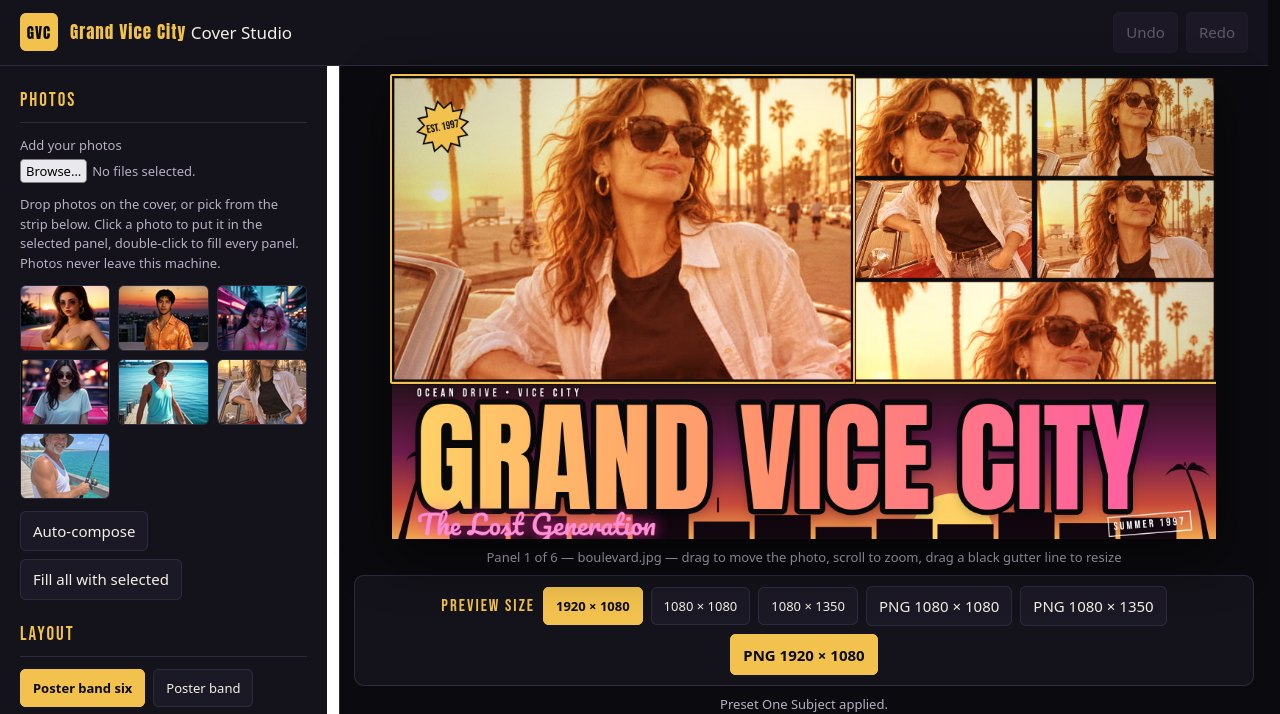
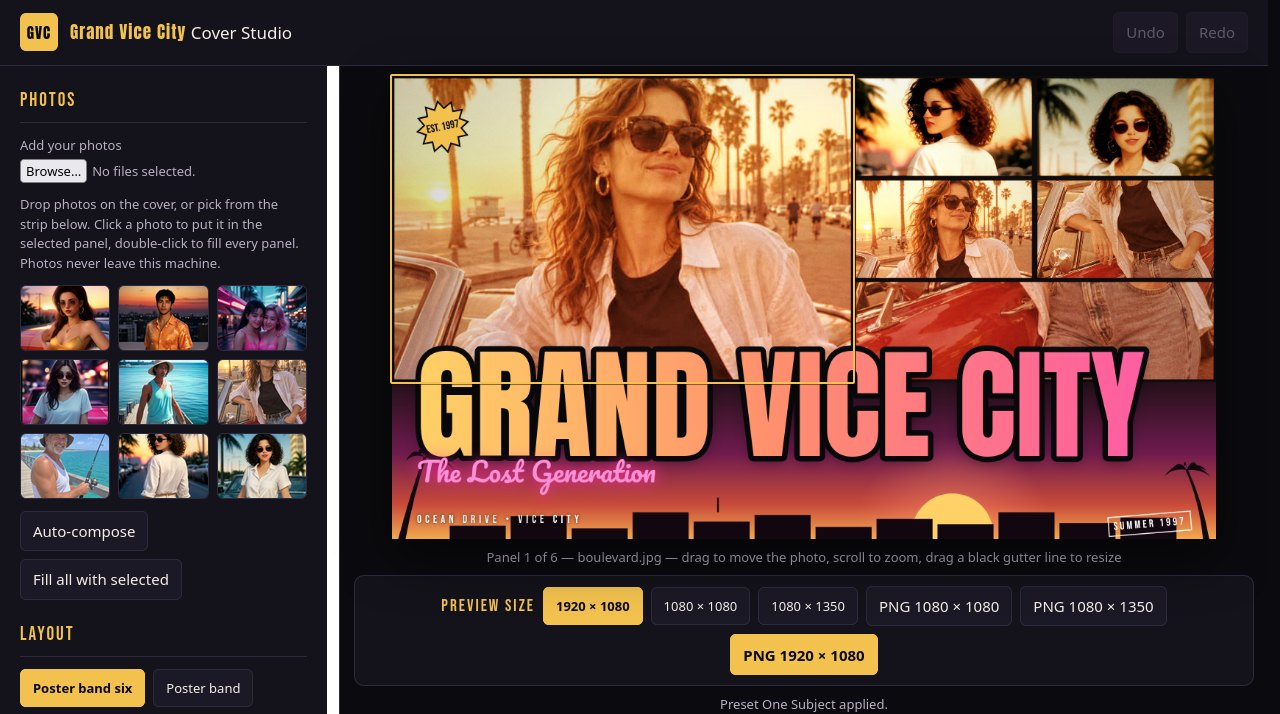
v5: title overlaps panels, two new same-heroine scenes, fully flat Poster Ink

Changed region(s): [[0.3125, 0.0924, 0.9688, 0.7703], [0.0938, 0.5854, 0.25, 0.7087]]

diff --git a/app/src/lettering.js b/app/src/lettering.js
@@ -9,6 +9,10 @@
 // never covers a face or a hero's body. Full-bleed layouts keep the title
 // overlapping the panels, but it now grows to fill the width (up to a
 // taller cap) instead of sitting small in the bottom-left corner.
+// v5: band layouts with layout.titleOverlap lift the title's caps above the
+// band into the panels (ala #2 SUN HEIST), and move the location line to
+// the band's bottom row so the small line is never struck through by the
+// giant letters. The overlap is sized to clear every face (see layouts.js).
 import { GRADES } from './grades.js';
 import { LAYOUTS } from './layouts.js';
 
@@ -184,8 +188,13 @@ export function drawLettering(ctx, W, H, state) {
     // not the flat gradient fill v2 used — see drawBandBackdrop above.
     ctx.save();
     drawBandBackdrop(ctx, W, bandY, bandH, grade);
-    ctx.fillStyle = '#f2c14e';
-    ctx.fillRect(0, bandY, W, Math.max(2, Math.round(H * 0.004)));
+    // v5: overlap mode skips the gold rule at bandY — the title's caps
+    // cross that line, and a 4px rule through the letters would read as
+    // a strike-through instead of a frame edge.
+    if (!layout.titleOverlap) {
+      ctx.fillStyle = '#f2c14e';
+      ctx.fillRect(0, bandY, W, Math.max(2, Math.round(H * 0.004)));
+    }
     ctx.restore();
 
     // Block: location row, giant one-line title, neon script — centred in the band.
@@ -197,10 +206,24 @@ export function drawLettering(ctx, W, H, state) {
     const titleSize = title ? fitFontFill(ctx, title, titleFace, W - pad * 2, titleCap) : 0;
     const capsH = titleSize * 0.88;
     const gap = Math.round(H * 0.012);
-    const blockH = locSize + gap + capsH + gap + scriptSize * 0.75;
-    let top = bandY + Math.max(0, (bandH - blockH) / 2);
+    // v5: overlap mode (layout.titleOverlap) drops the location line from
+    // the block's top row — the title's caps rise above the band there, so
+    // the small line would be struck through by the giant letters. The
+    // block is title + script only, its caps top sitting `overlap` above
+    // the band edge; the location moves to the band's bottom row (drawn
+    // below, over the dark skyline strip, clear of the sun glow).
+    const overlapMode = !!layout.titleOverlap;
+    const overlap = overlapMode ? capsH * layout.titleOverlap : 0;
+    const blockH = overlapMode
+      ? capsH + gap + scriptSize * 0.75
+      : locSize + gap + capsH + gap + scriptSize * 0.75;
+    const top = overlapMode
+      ? bandY - overlap
+      : bandY + Math.max(0, (bandH - blockH) / 2);
+    const titleY = overlapMode ? top + capsH : top + locSize + gap + capsH;
+    const scriptY = titleY + gap + scriptSize * 0.75;
 
-    if (location) {
+    if (location && !overlapMode) {
       ctx.save();
       ctx.font = `${locSize}px "Bebas Neue"`;
       try { ctx.letterSpacing = `${Math.round(locSize * 0.32)}px`; } catch (e) { /* older canvas: plain */ }
@@ -210,6 +233,19 @@ export function drawLettering(ctx, W, H, state) {
       ctx.shadowColor = 'rgba(0,0,0,0.7)';
       ctx.shadowBlur = locSize * 0.3;
       ctx.fillText(location, pad, top + locSize);
+      try { ctx.letterSpacing = '0px'; } catch (e) { /* ignore */ }
+      ctx.restore();
+    }
+    if (location && overlapMode) {
+      ctx.save();
+      ctx.font = `${locSize}px "Bebas Neue"`;
+      try { ctx.letterSpacing = `${Math.round(locSize * 0.32)}px`; } catch (e) { /* older canvas: plain */ }
+      ctx.textAlign = 'left';
+      ctx.textBaseline = 'alphabetic';
+      ctx.fillStyle = '#ffffff';
+      ctx.shadowColor = 'rgba(0,0,0,0.7)';
+      ctx.shadowBlur = locSize * 0.3;
+      ctx.fillText(location, pad, bandY + bandH - Math.round(H * 0.035));
       try { ctx.letterSpacing = '0px'; } catch (e) { /* ignore */ }
       ctx.restore();
     }
@@ -238,7 +274,6 @@ export function drawLettering(ctx, W, H, state) {
     }
 
     if (title) {
-      const titleY = top + locSize + gap + capsH;
       drawTitle(ctx, title, titleFace, titleSize, pad, titleY, W - pad * 2, titleColors);
     }
     if (subtitle) {
@@ -249,7 +284,7 @@ export function drawLettering(ctx, W, H, state) {
       ctx.fillStyle = '#ff8fd6';
       ctx.shadowColor = '#ff2ea6';
       ctx.shadowBlur = scriptSize * 0.55;
-      ctx.fillText(subtitle, pad, top + locSize + gap + capsH + gap + scriptSize * 0.75);
+      ctx.fillText(subtitle, pad, scriptY);
       ctx.restore();
     }
   } else {

diff --git a/app/src/presets.js b/app/src/presets.js
@@ -7,13 +7,18 @@
 // summer-1997 is fixed (title is GRAND VICE CITY in the band, no more
 // giant date covering mouths); neon-nights and pier-lights now put a real
 // night photo in the hero panel, so the neon grade matches the hero.
-// v4: One Subject's grade is now POSTER INK (was golden-vice) — the
-// exported cover is halftone, ala v2's win vs #5, with v3's one-subject
-// story + sunset title band kept. The two detail-crop filler panels are
-// gone: panel 3 is now a wide boulevard scene (palms + street + sky,
-// zoom 1.05, top slice) and panel 4 is the heroine in front of the red
-// car at full width (zoom 1.0, mid-low slice) — all six panels are
-// scenes of the same heroine, no detail crops.
+// v5: One Subject's grade stays POSTER INK and the band stays, but two
+// panels are now TRULY different scenes, not boulevard.jpg crops (the gap
+// that lost v4 vs #2): panel 2 is boulevard-back.jpg — the same heroine
+// from behind, walking down the boulevard at sunset (Pollinations, same
+// character description: curly brown hair, sunglasses, white shirt); panel
+// 3 is boulevard-hood.jpg — the same heroine sitting on the hood of the
+// red classic convertible. Both are AI-made with the heroine's exact
+// outfit/hair/sunglasses, then posterized + halftone-unified with the rest
+// of the cover, so the identity holds at cover scale. The existing repo
+// samples could NOT be used here: heroine-neon is a visibly different
+// woman, rooftop/pierman are men, neon is two different women — putting
+// any of them in a one-subject preset would break the narrative.
 export const PRESETS = [
   {
     id: 'one-subject',
@@ -27,11 +32,16 @@ export const PRESETS = [
     stamp: 'SUMMER 1997',
     photos: [
       { photo: 'boulevard.jpg', oy: -0.65 },
-      { photo: 'boulevard.jpg', zoom: 2.0, ox: 0.35, oy: -0.8 },
+      { photo: 'boulevard-back.jpg', zoom: 1.15, oy: -0.55 },
+      { photo: 'boulevard-hood.jpg', zoom: 1.1, oy: -0.5 },
       { photo: 'boulevard.jpg', zoom: 1.05, ox: 0.5, oy: -0.7 },
       { photo: 'boulevard.jpg', zoom: 1.0, ox: -0.5, oy: 0.35 },
-      { photo: 'boulevard.jpg', zoom: 1.25, ox: 0.15, oy: -0.6 },
-      { photo: 'boulevard.jpg', zoom: 1.1, ox: -0.3, oy: -0.79 },
+      // v5 fix: the wide strip used to be a face close-up whose mouth sat
+      // at ~0.61H — exactly where the overlapping title's caps top lands
+      // (0.607H), so the title hid her mouth. The strip is now the bottom
+      // slice of the same photo (red classic car + street, no face), so the
+      // overlap reads as #2-style title-over-street, never title-over-face.
+      { photo: 'boulevard.jpg', zoom: 1.0, ox: 0, oy: 0.9 },
     ],
   },
   {
@@ -116,4 +126,7 @@ export const SAMPLE_FILES = [
   'pierman.jpg',
   'boulevard.jpg',
   'pier.jpg',
+  // v5: the two new One Subject scenes (same heroine, different moments).
+  'boulevard-back.jpg',
+  'boulevard-hood.jpg',
 ];

diff --git a/app/src/grades.js b/app/src/grades.js
@@ -53,30 +53,25 @@ export const GRADES = {
     washAlpha: 0.2,
     band: ['#2a2118', '#3a2c1c', '#4a3822'],
   },
-// v4: Poster Ink is now the DEFAULT cover grade (One Subject preset) and
-// is flatter/posterized ala #1 HEATWAVE — halftone dots larger + fainter
-// (alpha 0.13 -> 0.09), film grain cut to a quarter on ink covers (grain
-// is what made v2's halftone read noisy), and a sunset wash (was: none)
-// so daylight-blue panels — pier, beach sky — are pulled FULLY into the
-// sunset palette instead of staying cold. Posterize levels TESTED 3 vs 4:
-// 3 flattened the hero's face to a single orange blob (mouth lost), 4
-// keeps the face readable while the panels still read as one flat poster.
-// Wash tested 0.22 vs 0.34: 0.34 warms the panels further (rooftop sky,
-// beach) while the hero face stays readable; the pier sea itself stays
-// turquoise (its saturation resists a 'color' wash below face-wrecking
-// strength) but is now posterized + halftone-unified with the rest.
+// v5: Poster Ink goes fully flat, ala #1 HEATWAVE — posterize 3 levels
+// (was 4; v4 tested 3 vs 4 and picked 4 because 3 blobbed the hero face,
+// so v5 re-tests 3 with the flatter pipeline: stronger contrast/saturation
+// to sharpen the quantization edges into geometric shadow shapes, coarser
+// halftone dots at higher alpha, grain still cut to a quarter). If the
+// browser check shows the face blobbing again, the fallback is levels 4
+// with the same stronger dots — flat-max that keeps the face readable.
   'poster-ink': {
     name: 'Poster Ink',
     blurb: 'Halftone comic ink: posterized colour, ink outline, dot screen.',
-    filter: 'saturate(1.55) contrast(1.35) brightness(1.04)',
+    filter: 'saturate(1.6) contrast(1.45) brightness(1.04)',
     overlay: ['#ffd166', '#ff5da2'],
     overlayAlpha: 0.2,
     overlayMode: 'overlay',
     vignette: 0.14,
     posterize: true,
-    posterLevels: 4,
+    posterLevels: 3,
     halftone: true,
-    halftoneAlpha: 0.09,
+    halftoneAlpha: 0.13,
     wash: '#ff9a5c',
     washAlpha: 0.34,
     band: ['#241019', '#3a1526', '#4a1a2e'],

diff --git a/app/src/layouts.js b/app/src/layouts.js
@@ -8,10 +8,16 @@
 // v3: `poster-band-six` adds a sixth panel (a wide sunset strip under the
 // four small panels) so the cover reads denser, ala #1's 9-panel HEATWAVE,
 // without crowding: the hero keeps its 0.56 width and the band stays 34%.
+// v5: `titleOverlap` 0.30 — the giant gradient title's caps rise 30% of
+// their height above the band into the panels (ala #2 SUN HEIST), so the
+// title reads as part of the cover, not a caption strip below it. The
+// overlap is capped so the caps stay clear of every face (hero face ends
+// ~0.35H, the wide-strip face's mouth ~0.56H, caps top ~0.61H).
 export const LAYOUTS = {
   'poster-band-six': {
     name: 'Poster band six',
     band: 0.34,
+    titleOverlap: 0.3,
     panels: [
       { x: 0, y: 0, w: 0.56, h: 0.66 },
       { x: 0.56, y: 0, w: 0.22, h: 0.22 },

diff --git a/main.ts b/main.ts
@@ -12,6 +12,11 @@
 // sunset title band (gradient + sun + skyline + palm silhouettes); the
 // two filler detail crops are replaced by full-scene boulevard crops;
 // the dossier contract is unchanged (byte-identical across runs).
+// v5: the title now overlaps the panels (titleOverlap 0.30 on
+// poster-band-six), two panels are truly different scenes of the same
+// heroine (boulevard-back + boulevard-hood, Pollinations), and Poster Ink
+// goes fully flat (posterize 3, coarser halftone dots); the dossier
+// contract is unchanged (byte-identical across runs).
 //
 // Serve it locally with `node serve.ts`, then open http://localhost:8080.
 // Outside the grader's container, MAKEFUN_OUTPUT_DIR stands in for /output:

diff --git a/app/src/cover.js b/app/src/cover.js
@@ -30,13 +30,15 @@ let dotTile = null;
 function getDotTile() {
   if (dotTile) return dotTile;
   const c = document.createElement('canvas');
-  // v4: coarser dot screen (8px -> 10px tile) — flatter poster feel, less noise.
-  c.width = 10;
-  c.height = 10;
+  // v5: coarser dot screen (10px -> 12px tile, dot r 1.9 -> 2.6) — the
+  // #1 HEATWAVE comic-flat look needs dots you can actually see; the
+  // v4 dots were too fine to read as halftone at cover scale.
+  c.width = 12;
+  c.height = 12;
   const g = c.getContext('2d');
   g.fillStyle = '#000000';
   g.beginPath();
-  g.arc(5, 5, 1.9, 0, Math.PI * 2);
+  g.arc(6, 6, 2.6, 0, Math.PI * 2);
   g.fill();
   dotTile = c;
   return c;

diff --git a/app/index.html b/app/index.html
@@ -5,6 +5,7 @@
 <meta name="viewport" content="width=device-width, initial-scale=1">
 <title>Grand Vice City — Cover Studio</title>
 <!-- v3: One Subject preset first, sunset title band with palm/skyline backdrop -->
+<!-- v5: title overlaps the panels (titleOverlap), location line moves to the band's bottom row -->
 <link rel="stylesheet" href="./style.css">
 </head>
 <body>
